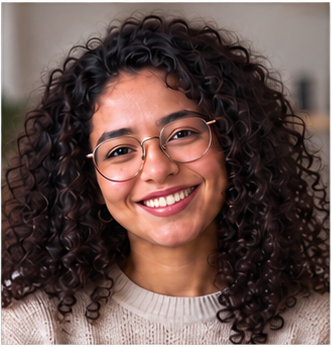
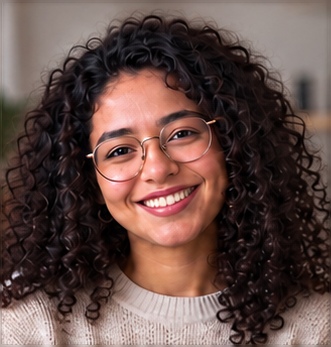
[T] 20 delikli kare portre: delik çevresinden dolduruldu (marka.py --onar)
Yirmi beş kare portrenin yirmisinde saydam delik vardı (açık duvar,
beyaz tişört, kenar çizgisi; yüzler sağlam). Kullanıcı: «sorunları çöz».

K aynı anda 30afb8d'de delikleri beyaz zemine oturttu. İkisi yan yana
bakıldı: beyaz zemin tişörtte iyi, ama duvardaki delikler bembeyaz leke
olarak kalıyor (Montaigne sağ üst, Mnemosyne tepe, King sağ, analist
kenar). Çevreden doldurma duvarda da temiz; bu commit K'nin 20 dosyasının
yerine geçer.

- tools/marka.py doldur() + --onar: delik dışarıdan içe, bilinen
  komşuların ortalamasıyla dolar, sonra yalnız doldurulan pikseller
  yumuşatılır; bilinen piksel değişmez, deliksiz portre aynen döner.
  Çıktı opak, kayıpsız WebP, aynı ad.
- tools/portreonar_test.py (yeni; Pillow yoksa atlanır): delik kalmaz,
  bilinen piksel aynı, düz zemin kendi rengiyle dolar, kenar çizgisi
  alttaki renkle dolar, deliksiz portre değişmez.
- brand/medya/OKU.md: onarımın bir tahmin olduğu ve temiz kaynağın yine
  aynı adla üstüne yazılacağı yazıldı.

Koşulan: portreonar_test temiz; marka --delik «25 dosya, delik yok»;
--kunye --denetle taze; --sina temiz.

Claude-Session: https://claude.ai/code/session_01LLqh49P8N1atdZT4u6DVmw

Changed region(s): [[0.0, 0.0, 1.0, 1.0]]

diff --git a/tools/marka.py b/tools/marka.py
@@ -164,6 +164,98 @@ def delik() -> int:
     return 0
 
 
+_KOMSU = ((-1, -1), (0, -1), (1, -1), (-1, 0), (1, 0), (-1, 1), (0, 1), (1, 1))
+
+
+def doldur(im, esik=128, yumusat=3):
+    """Kare portrenin deliklerini (alfa < esik) disaridan ice, bilinen
+    komsularin ortalamasiyla doldurur (sogan kabugu), sonra YALNIZ
+    doldurulan pikselleri yumusatir. Bilinen piksel DEGISMEZ; delik
+    olmayan portre aynen doner. Cikti opak RGB.
+
+    Deliklerin yeri (2026-09-25 olcumu): acik duvar, beyaz tisort, kenar
+    cizgisi — yuzler saglam. Doldurma bu yuzden yuzu uydurmaz; yine de
+    bir TAHMINDIR: temiz kaynak gelince `isle` ayni adla degistirir."""
+    im = im.convert("RGBA")
+    w, h = im.size
+    px = list(im.getdata())
+    bilinen = [p[3] >= esik for p in px]
+    renk = [list(p[:3]) for p in px]
+    dolan = [not b for b in bilinen]
+    bekleyen = {i for i, b in enumerate(bilinen) if not b}
+    enaz = 3
+    while bekleyen:
+        yeni = {}
+        for i in bekleyen:
+            x, y = i % w, i // w
+            s0 = s1 = s2 = c = 0
+            for dx, dy in _KOMSU:
+                X, Y = x + dx, y + dy
+                if 0 <= X < w and 0 <= Y < h and bilinen[Y * w + X]:
+                    r = renk[Y * w + X]
+                    s0 += r[0]; s1 += r[1]; s2 += r[2]; c += 1
+            if c >= enaz:
+                yeni[i] = [s0 // c, s1 // c, s2 // c]
+        if not yeni:
+            if enaz == 1:
+                break            # hic bilinen piksel yok: doldurulacak dayanak yok
+            enaz -= 1
+            continue
+        enaz = 3
+        for i, v in yeni.items():
+            renk[i] = v
+            bilinen[i] = True
+        bekleyen -= yeni.keys()
+    for _ in range(yumusat):
+        kopya = [r[:] for r in renk]
+        for i in range(w * h):
+            if not dolan[i]:
+                continue
+            x, y = i % w, i // w
+            s0 = s1 = s2 = c = 0
+            for dy in (-2, -1, 0, 1, 2):
+                for dx in (-2, -1, 0, 1, 2):
+                    X, Y = x + dx, y + dy
+                    if 0 <= X < w and 0 <= Y < h:
+                        r = kopya[Y * w + X]
+                        s0 += r[0]; s1 += r[1]; s2 += r[2]; c += 1
+            renk[i] = [s0 // c, s1 // c, s2 // c]
+    from PIL import Image
+    out = Image.new("RGB", (w, h))
+    out.putdata([tuple(r) for r in renk])
+    return out
+
+
+def onar(dene: bool = False) -> int:
+    """`--onar`: delikli kare portreleri yerinde doldurur (bkz. doldur).
+    Temiz kaynak geldiginde `isle` ayni adla uzerine yazar."""
+    try:
+        from PIL import Image
+    except ImportError:
+        print("HATA: Pillow yok.  pip install pillow")
+        return 2
+    n = 0
+    for f in sorted((MEDYA / "ajan").glob("ajan-kare-*.webp")):
+        im = Image.open(f)
+        o = saydam_oran(im)
+        if o <= 0:
+            continue
+        n += 1
+        if dene:
+            print("  → %-30s %%%.1f delik doldurulacak" % (f.stem, 100 * o))
+            continue
+        doldur(im).save(f, "WEBP", lossless=True, quality=100, method=6)
+        print("  ✓ %-30s %%%.1f delik dolduruldu" % (f.stem, 100 * o))
+    if not n:
+        print("Kare portreler temiz; doldurulacak delik yok.")
+    elif dene:
+        print("\nDENEME: hiçbir şey yazılmadı. %d portre doldurulacak." % n)
+    else:
+        print("\n%d portre dolduruldu (tahmin; temiz kaynak gelince aynı adla değiştir). "
+              "Künyeyi tazele: python3 tools/marka.py --kunye" % n)
+    return 0
+
+
 def isle(kaynak: Path, dene: bool = False) -> int:
     if not kaynak.is_dir():
         print("HATA: %s bir klasör değil" % kaynak)
@@ -699,6 +791,8 @@ def _kunye_sayim():
 
 
 def main() -> int:
+    if "--onar" in sys.argv:
+        return onar("--dene" in sys.argv)
     if "--sina" in sys.argv:
         return sina()
 

diff --git a/tools/portreonar_test.py b/tools/portreonar_test.py
@@ -1,0 +1,55 @@
+#!/usr/bin/env python3
+"""`marka.py --onar` (doldur) testi. Pillow yoksa atlanir (CI'nin hizli
+isinde Pillow yok; kapi yine `isle`dedir).
+
+   python3 tools/portreonar_test.py     (cikis 0 temiz, 1 kirmizi)
+
+Sozler: delik (alfa<128) kalmaz; bilinen piksel DEGISMEZ; doldurulan
+piksel komsularina yakin (duz zeminde ayni renk); deliksiz portre aynen."""
+import sys
+from pathlib import Path
+
+sys.path.insert(0, str(Path(__file__).resolve().parent))
+try:
+    from PIL import Image
+except ImportError:
+    print("Pillow yok; portre onarim testi atlandi.")
+    sys.exit(0)
+import marka  # noqa: E402
+
+kirmizi = 0
+
+
+def dogru(ad, kosul):
+    global kirmizi
+    print(("  ✓ " if kosul else "  ✕ ") + ad)
+    if not kosul:
+        kirmizi += 1
+
+
+# Duz zeminli portre: 40x50, sol yari (200,190,180), sag yari (60,70,80);
+# sol yarida 8x8 delik ve ustte 1 piksellik kenar cizgisi (alfa 0).
+im = Image.new("RGBA", (40, 50))
+im.putdata([((200, 190, 180, 255) if x < 20 else (60, 70, 80, 255))
+            for y in range(50) for x in range(40)])
+for y in range(20, 28):
+    for x in range(5, 13):
+        im.putpixel((x, y), (0, 0, 0, 0))
+for x in range(40):
+    im.putpixel((x, 0), (0, 0, 0, 0))
+dogru("girdi delikli", marka.saydam_oran(im) > 0)
+
+o = marka.doldur(im)
+dogru("delik kalmadı", marka.saydam_oran(o.convert("RGBA")) == 0)
+dogru("bilinen piksel değişmedi",
+      all(o.getpixel((x, y)) == im.getpixel((x, y))[:3]
+          for y in range(50) for x in range(40) if im.getpixel((x, y))[3] >= 128))
+dogru("düz zemindeki delik zemin rengiyle doldu", o.getpixel((8, 23)) == (200, 190, 180))
+dogru("kenar çizgisi alttaki renkle doldu",
+      o.getpixel((3, 0)) == (200, 190, 180) and o.getpixel((35, 0)) == (60, 70, 80))
+
+temiz = Image.new("RGB", (10, 10), (10, 20, 30))
+dogru("deliksiz portre aynen döner", list(marka.doldur(temiz).getdata()) == list(temiz.getdata()))
+
+print("\nPortre onarımı: %s" % ("temiz" if not kirmizi else "%d kırmızı" % kirmizi))
+sys.exit(1 if kirmizi else 0)

diff --git a/brand/medya/OKU.md b/brand/medya/OKU.md
@@ -92,6 +92,13 @@ python3 tools/marka.py --delik     # hangi kare delikli, yüzde kaç
 Temiz kaynak gelince aynı adla (`ajan-kare-<mod>-<id>`) verilir; 4:5
 kırpılır (uygulama 60×75 gösterir), mevcut karelerin boyunda (320×400).
 
+**Onarım (2026-09-25, kullanıcı kararı):** yirmi delikli kare
+`python3 tools/marka.py --onar` ile dolduruldu — delik dışarıdan içe,
+komşu piksellerin ortalamasıyla kapanır; bilinen piksele (yüzlere)
+dokunulmaz. Delikler duvarda, beyaz tişörtte ve kenar çizgisindeydi;
+doldurulan yer bir **tahmindir**. Temiz kaynak gelirse yine aynı adla
+verilir ve onarılmış olanın üstüne yazılır. Test: `tools/portreonar_test.py`.
+
 ### Neyin ne olduğu
 
 | Dosya | Nerede görünür |
